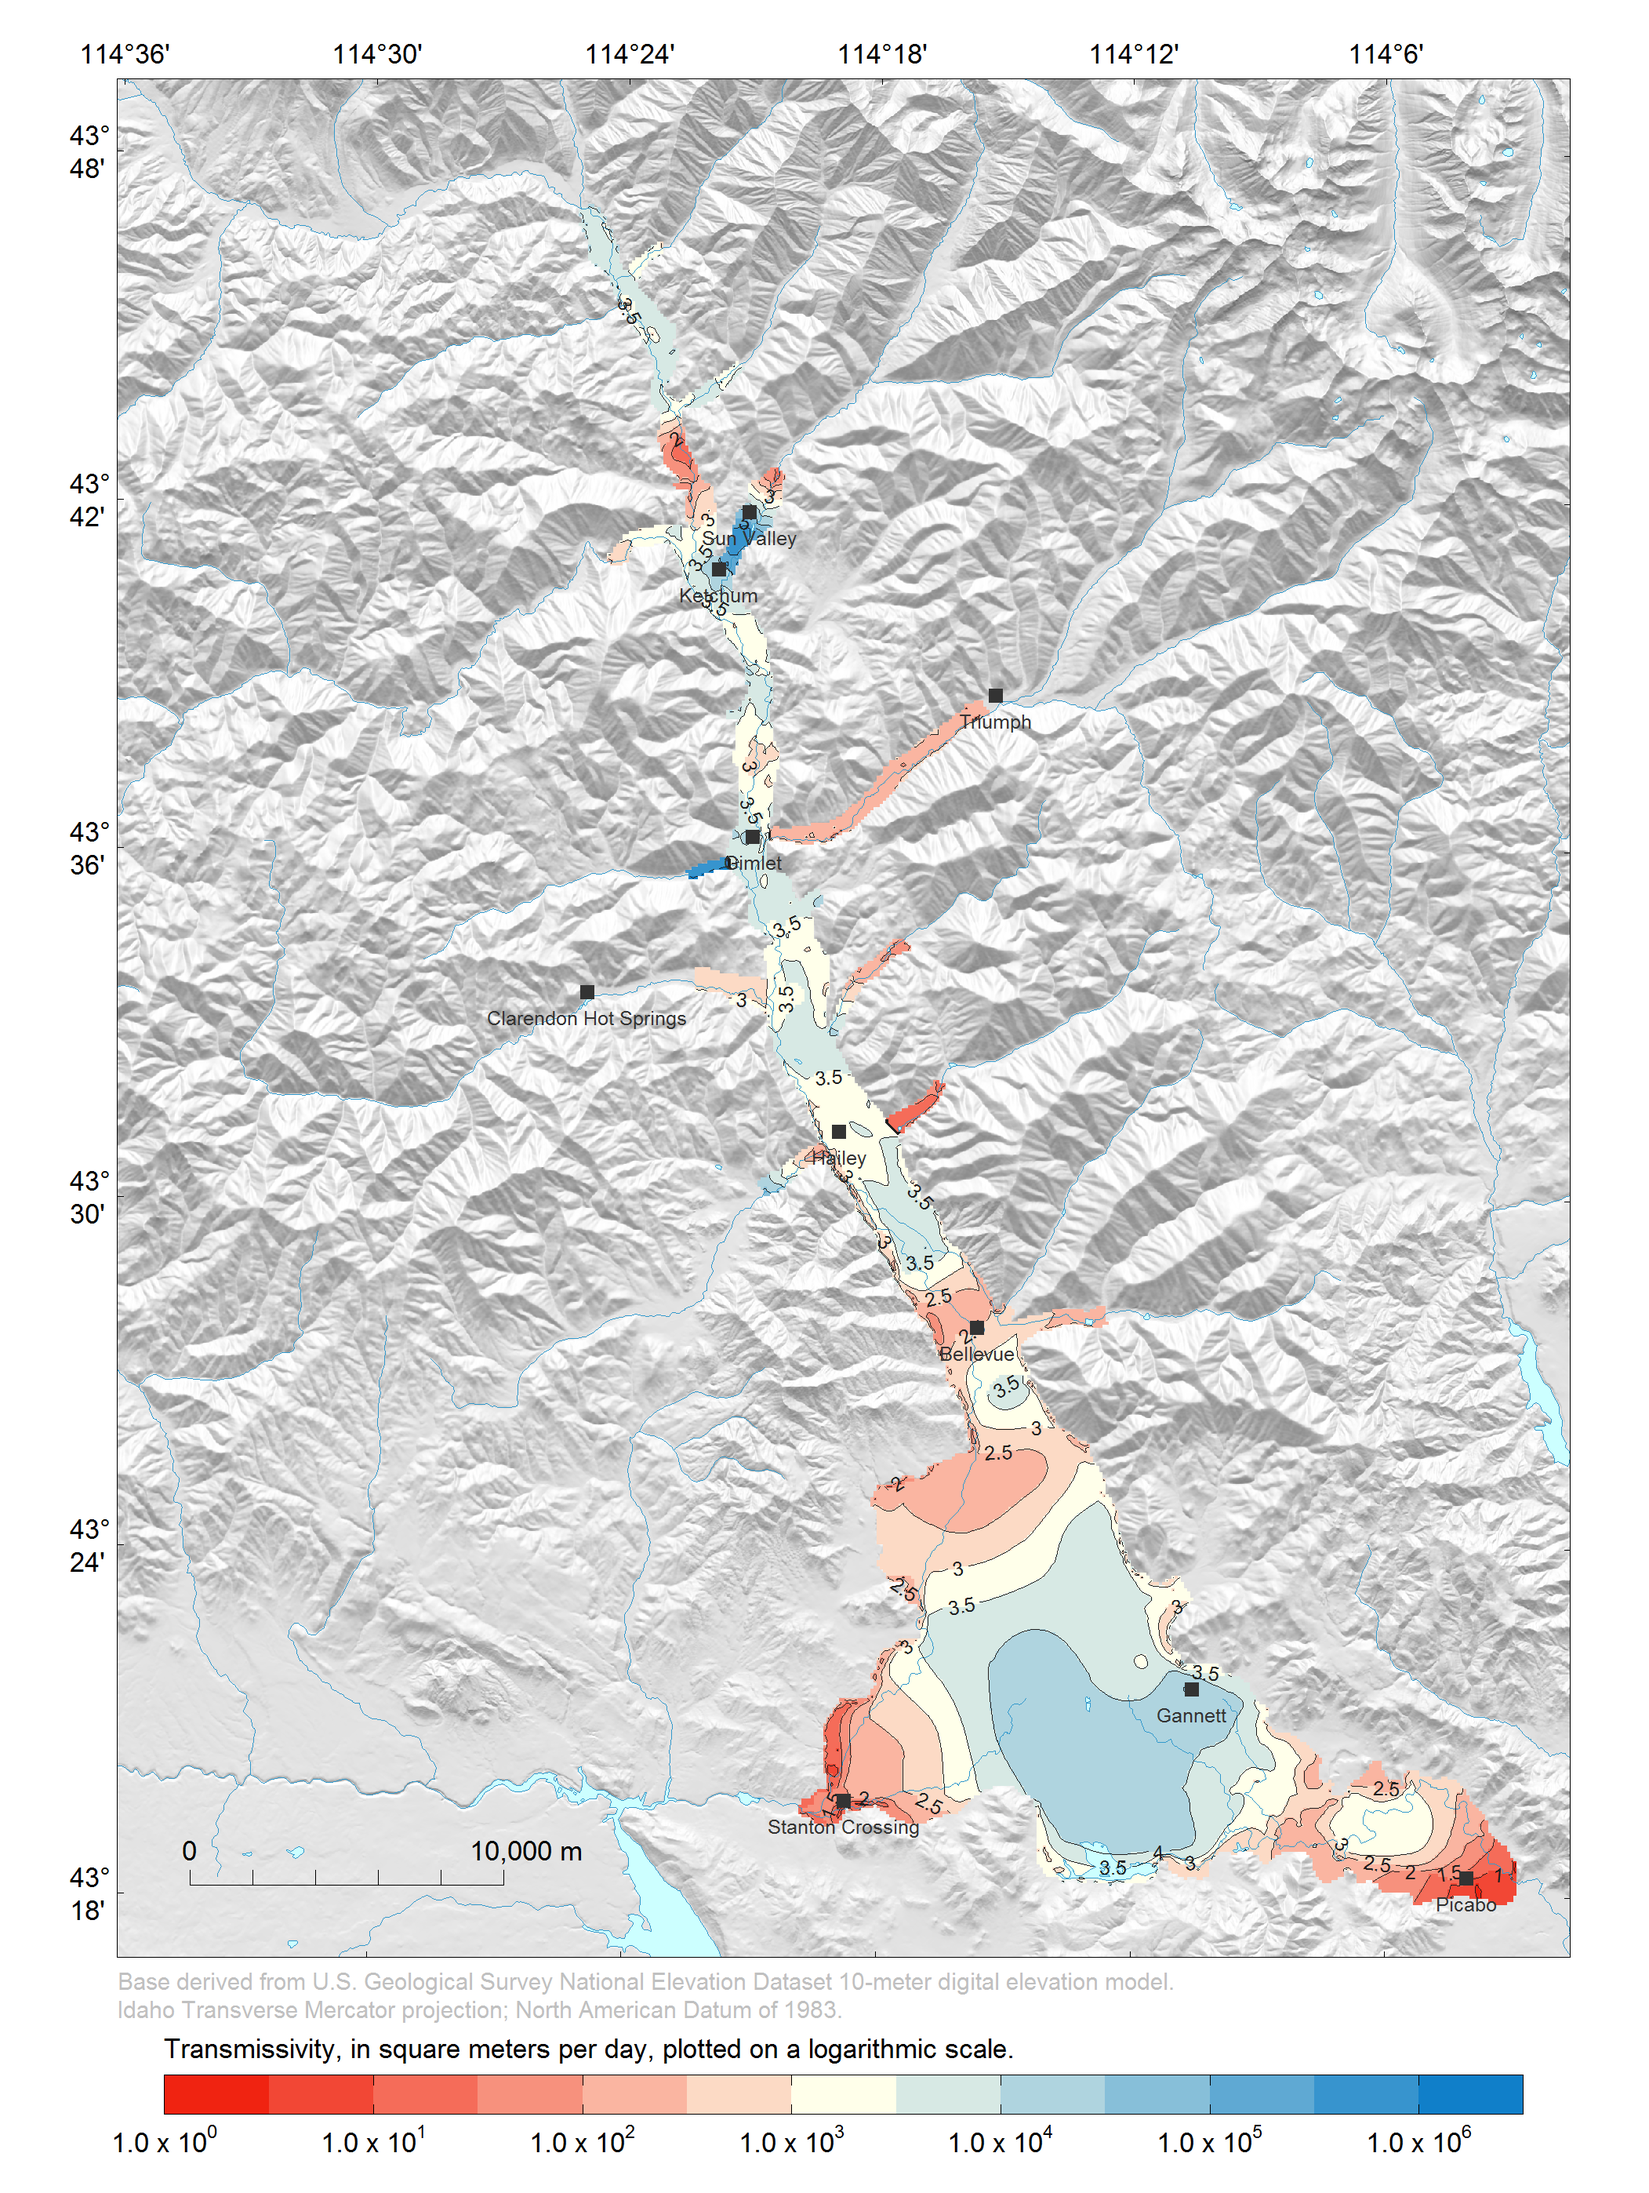
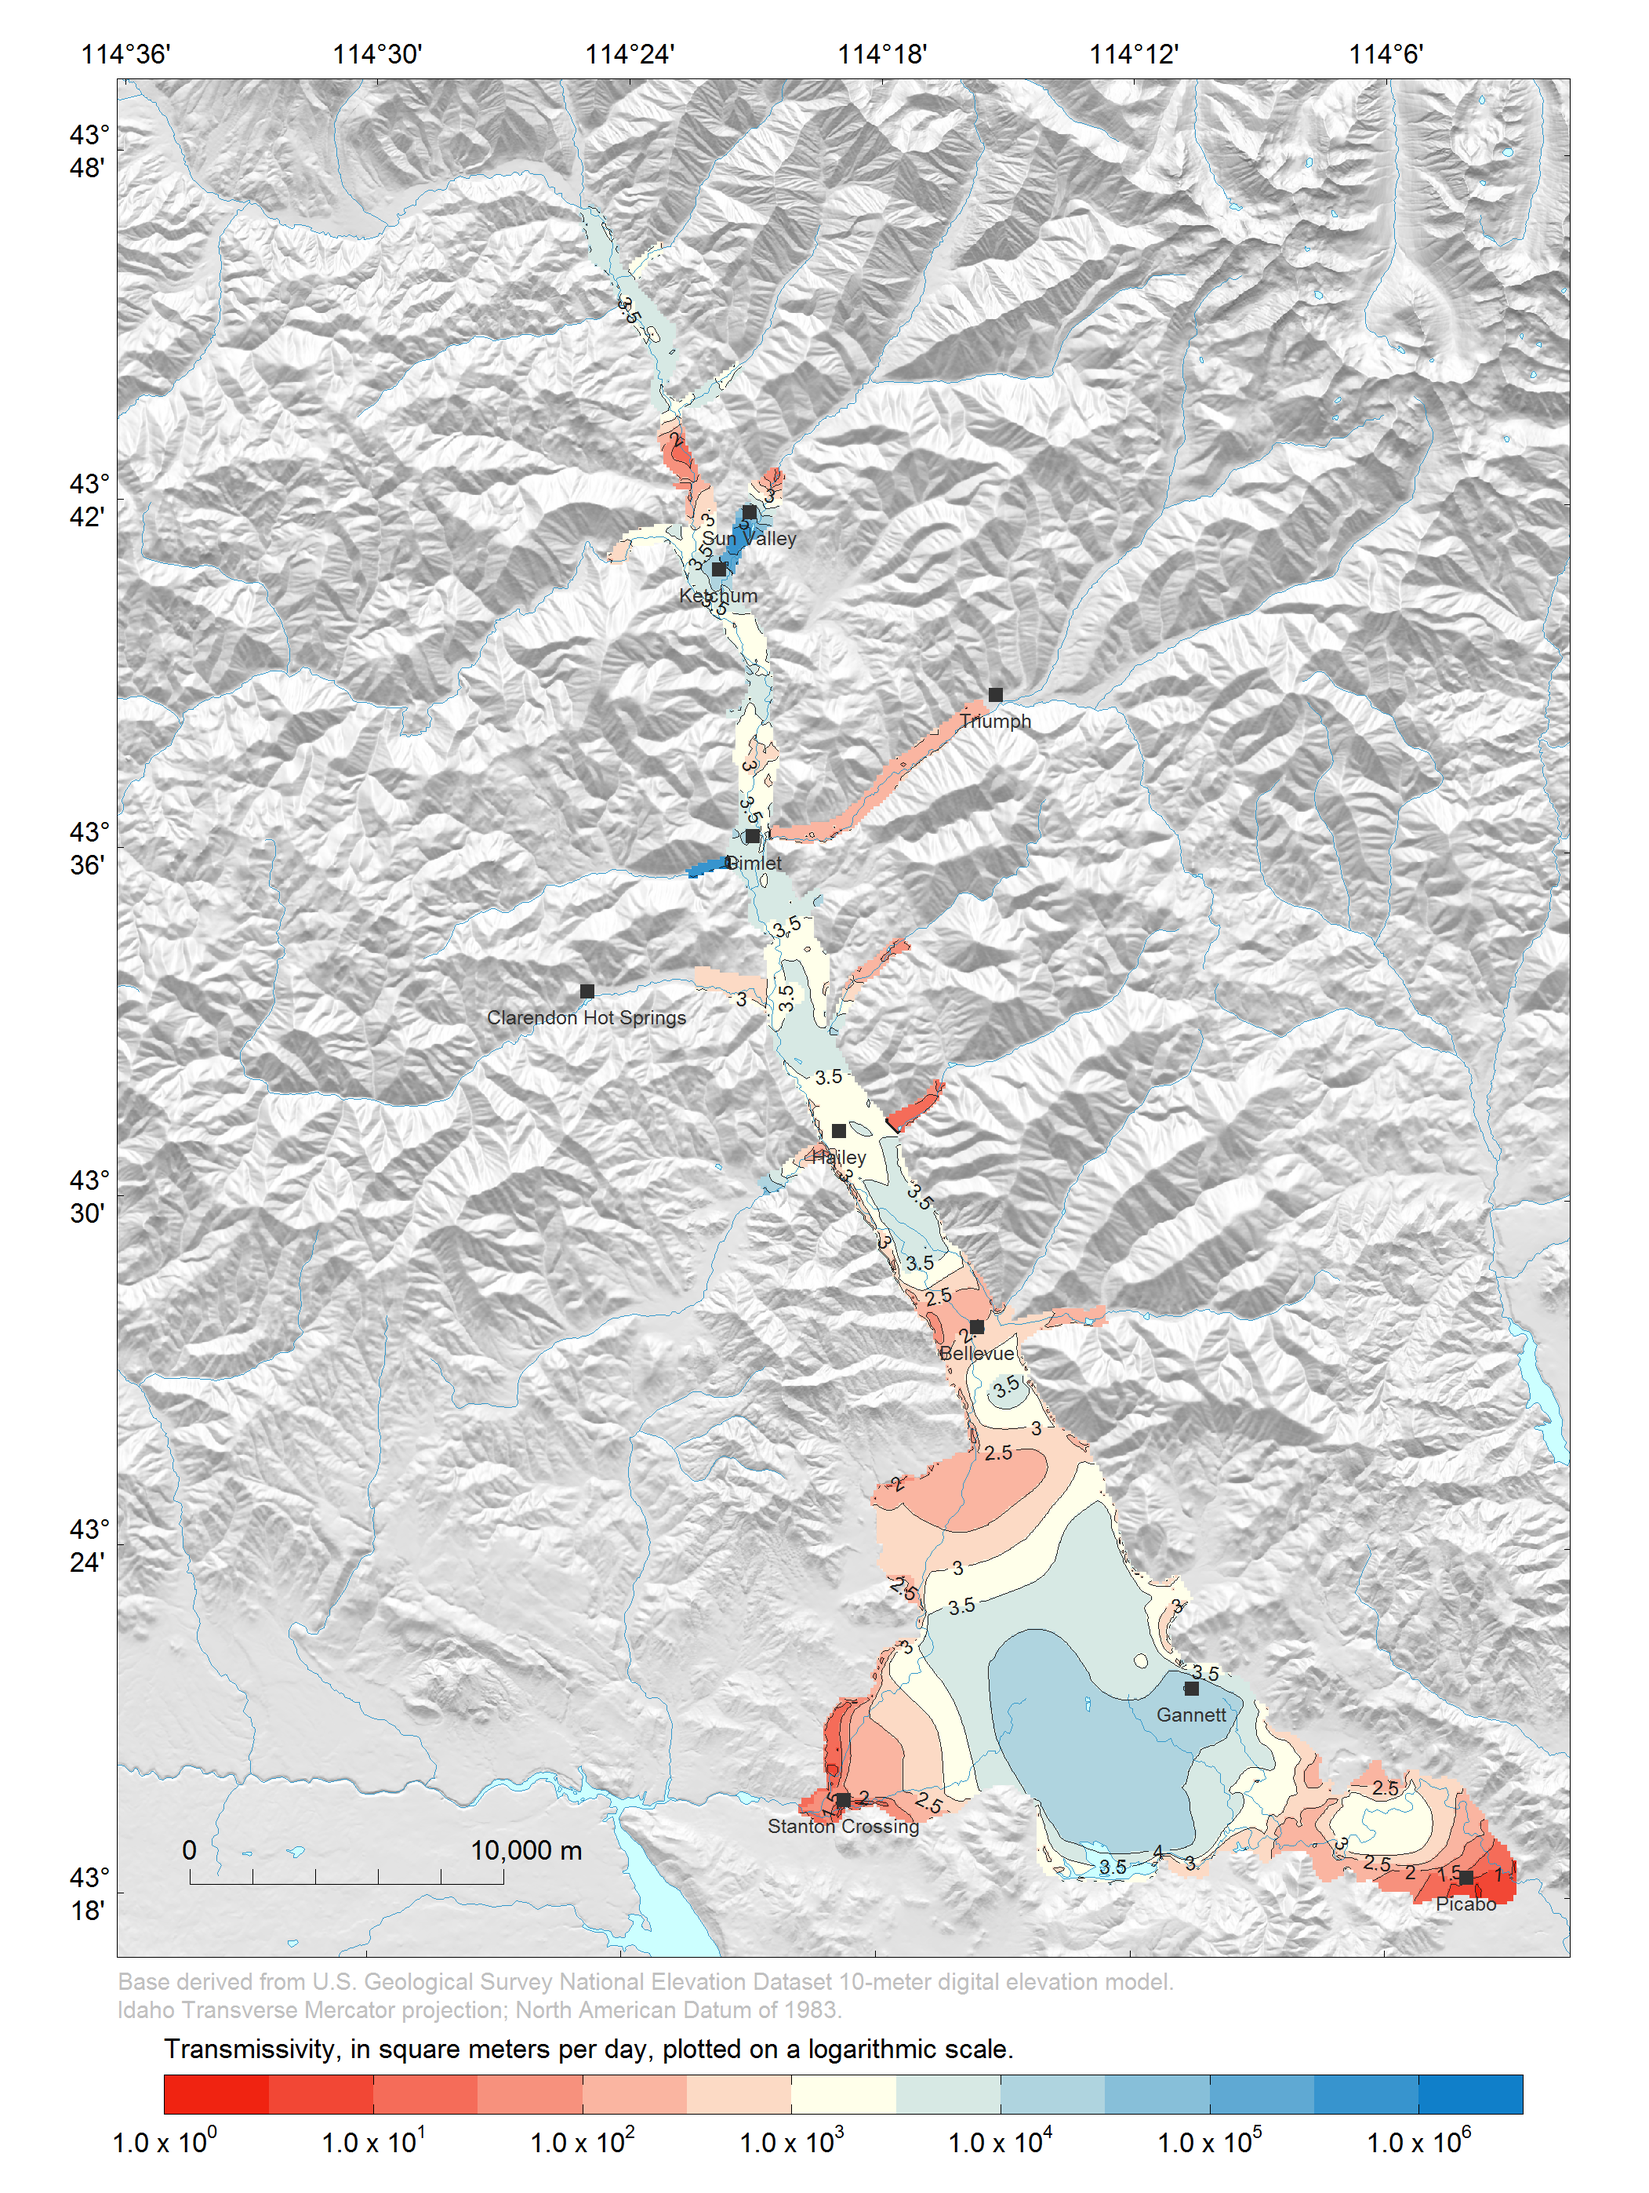
Fixed a few bugs, found a bug in wrv

diff --git a/scenario2.html b/scenario2.html
@@ -452,8 +452,7 @@ files &lt;- list.files(file.path(getwd(), &quot;data&quot;), pattern = &quot;*.r
 for (i in files) load(i)</code></pre>
 <p>Read Appendix D R-source-code file (“sir20165080_AppendixD.R”) and remove all lines composed of the <code>invisible(dev.off())</code> command. This command is only useful when copy/pasting directly from the R-source-code file.</p>
 <pre class="r"><code>file &lt;- system.file(&quot;doc&quot;, &quot;sir20165080_AppendixD.R&quot;, package = &quot;wrv&quot;)
-app.d.r &lt;- readLines(file)
-app.d.r &lt;- app.d.r[-grep(&quot;invisible.*dev.off&quot;, app.d.r)]</code></pre>
+app.d.r &lt;- readLines(file)</code></pre>
 <p>Parse and evaluate all previous commands up to writing model input files.</p>
 <pre class="r"><code>line &lt;- grep(&quot;## ----write_modflow_input&quot;, app.d.r)
 eval(parse(text = app.d.r[1:line]))
@@ -469,10 +468,10 @@ dir.run &lt;- file.path(getwd(), &quot;model&quot;)</code></pre>
                   ntime.steps = ntime.steps, verbose = FALSE)</code></pre>
 <div id="copy-calibrated-files" class="section level4">
 <h4>Copy calibrated files</h4>
-<p>Overwrite model input reference files (“model/*.ref”) containing hydraulic conductivity and storage coefficient values, with reference files containing their calibrated values (“archive/*.ref”). And copy calibrated data for irrigation efficiency (“eff.csv”), canal seepage (“seep.csv”), and tributary underflow (“trib.csv”) to the model-run folder.</p>
+<p>Overwrite model input files with their calibrated values in the “archive” folder. These inlcude the reference data files (“model/*.ref”) containing hydraulic conductivity and storage coefficient values, MODFLOW River file (“model/*.riv”), and MODFLOW Drain file (“model/*.drn”). And copy calibrated data for irrigation efficiency (“eff.csv”), canal seepage (“seep.csv”), and tributary underflow (“trib.csv”) to the model-run folder.</p>
 <pre class="r"><code>dir.archive &lt;- file.path(getwd(), &quot;archive&quot;)
 files &lt;- list.files(dir.archive, full.names = TRUE)
-files &lt;- files[grep(&quot;(\\.ref|eff\\.csv|seep\\.csv|trib\\.csv)$&quot;, files)]
+files &lt;- files[grep(&quot;(\\.ref|\\.riv|\\.drn|eff\\.csv|seep\\.csv|trib\\.csv)$&quot;, files)]
 file.copy(files, dir.run, overwrite = TRUE)</code></pre>
 </div>
 <div id="save-file-containing-r-objects." class="section level4">
@@ -518,9 +517,10 @@ d.trib.arch    &lt;- d.trib</code></pre>
 <h4>Read water budget for modified simulation</h4>
 <p>Read water budget output for modified simulation, located in “model” folder, and summarize results in the following figure.</p>
 <pre class="r"><code>dir.run &lt;- file.path(getwd(), &quot;model&quot;)
+app.d.r &lt;- app.d.r[-grep(&quot;invisible.*dev.off&quot;, app.d.r)]
 line &lt;- grep(&quot;## ----table_budget&quot;, app.d.r)
 eval(parse(text = app.d.r[1:line]))</code></pre>
-<p><img src="figures/graph_water_budget-1.png" width="1074" style="display: block; margin: auto;" /></p>
+<p><img src="figures/graph_water_budget-1.png" width="716" style="display: block; margin: auto;" /></p>
 <p><strong>Figure:</strong> Volumetric water budget components by year, including annual change in storage, for the entire simulation period, 1995–2010, south-central Idaho—based on the Scenario 2 model results.</p>
 </div>
 <div id="compare-water-budgets" class="section level4">
@@ -559,9 +559,9 @@ eval(parse(text = app.d.r[1:line]))</code></pre>
 <td align="left"></td>
 <td align="left">Streamflow losses</td>
 <td align="right">177,813</td>
-<td align="right">306,807</td>
-<td align="right">128,994</td>
-<td align="right">72.5</td>
+<td align="right">198,665</td>
+<td align="right">20,852</td>
+<td align="right">11.7</td>
 </tr>
 <tr class="odd">
 <td align="left"></td>
@@ -591,9 +591,9 @@ eval(parse(text = app.d.r[1:line]))</code></pre>
 <td align="left"></td>
 <td align="left">Streamflow gains</td>
 <td align="right">251,967</td>
-<td align="right">376,047</td>
-<td align="right">124,080</td>
-<td align="right">49.2</td>
+<td align="right">273,689</td>
+<td align="right">21,722</td>
+<td align="right">8.6</td>
 </tr>
 <tr class="odd">
 <td align="left"></td>
@@ -607,17 +607,17 @@ eval(parse(text = app.d.r[1:line]))</code></pre>
 <td align="left"></td>
 <td align="left">Stanton Crossing outlet boundary</td>
 <td align="right">284</td>
-<td align="right">254</td>
-<td align="right">-30</td>
-<td align="right">-10.5</td>
+<td align="right">284</td>
+<td align="right">0</td>
+<td align="right">0.0</td>
 </tr>
 <tr class="odd">
 <td align="left"></td>
 <td align="left">Silver Creek outlet boundary</td>
 <td align="right">9,492</td>
-<td align="right">15,913</td>
-<td align="right">6,421</td>
-<td align="right">67.6</td>
+<td align="right">9,629</td>
+<td align="right">137</td>
+<td align="right">1.4</td>
 </tr>
 <tr class="even">
 <td align="left"></td>
@@ -631,9 +631,9 @@ eval(parse(text = app.d.r[1:line]))</code></pre>
 <td align="left"><strong>Inflow - Outflow</strong></td>
 <td align="left">Change in aquifer storage</td>
 <td align="right">604</td>
-<td align="right">62</td>
-<td align="right">-542</td>
-<td align="right">-89.7</td>
+<td align="right">532</td>
+<td align="right">-73</td>
+<td align="right">-12.0</td>
 </tr>
 </tbody>
 </table>
@@ -661,7 +661,7 @@ app.d.r &lt;- app.d.r[-(1:line)]</code></pre>
 <h4>Compare simulated water tables</h4>
 <p>A comparison between simulated water tables is shown in the following figure.</p>
 <p><strong>Figure:</strong> Simulated water table difference, defined as the archived water table subtracted from the modified water table, during December 2010.</p>
-<p><img src="figures/map_water_tbl_diff-1.png" width="1074" style="display: block; margin: auto;" /></p>
+<p><img src="figures/map_water_tbl_diff-1.png" width="716" style="display: block; margin: auto;" /></p>
 </div>
 </div>
 </div>

diff --git a/calib-model.html b/calib-model.html
@@ -358,7 +358,7 @@ file.copy(files[grep(&quot;\\.exe$&quot;, files)], &quot;archive&quot;, overwrit
 <p>Load R objects from a R-data file in the archive folder (“archive/model.rda”) and list all objects in your R environment.</p>
 <pre class="r"><code>load(&quot;archive/model.rda&quot;)
 cat(ls(), sep = &quot;, &quot;)</code></pre>
-<pre><code>## d.in.mv.ave, misc, reduction, rs, ss.stress.periods, tr.stress.periods, trib</code></pre>
+<pre><code>## d.in.mv.ave, file, files, misc, reduction, rs, ss.stress.periods, tr.stress.periods, trib, url</code></pre>
 <div id="calculate-transmissivity" class="section level3">
 <h3>Calculate transmissivity</h3>
 <p>Transmissivity is a measure of how much water can be transmitted horizontally, such as to a pumping well. To calculate transmissivity values in model layer 1, multiply the layer thickness by the calibrated hydraulic conductivity. Recall that a specified-thickness approximation was made in model construction, in other words, the saturated thickness is assumed to be independent from head changes in the aquifer system. Therefore, we can get away with using layer thickness rather than saturated thickness in layer 1.</p>
